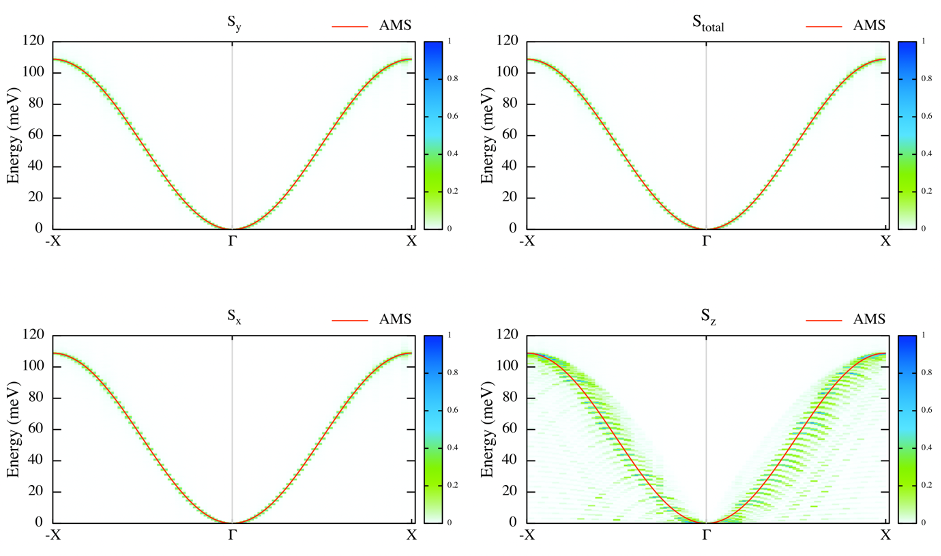
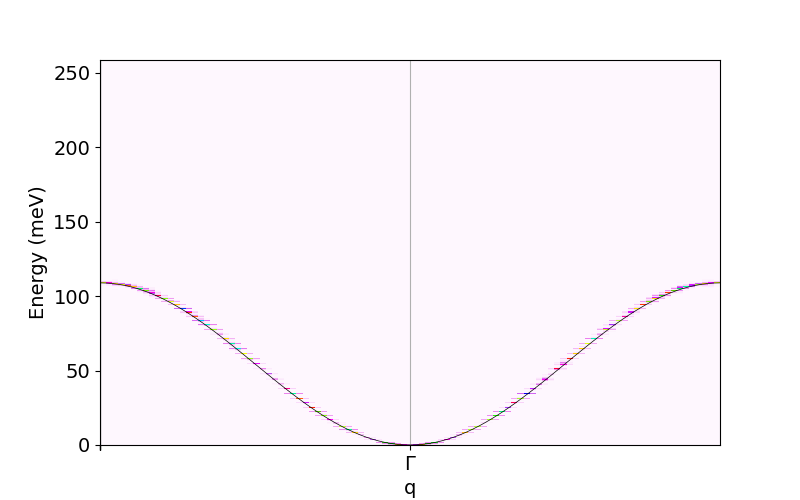
Updated the HeisChain example

diff --git a/content/magnon/magnon.rst b/content/magnon/magnon.rst
@@ -2,7 +2,7 @@ Magnon spectra and noncollinear magnetism
 =========================================
 
 
-Tutorial 1: bcc Fe at different temperature
+Exercise 1: bcc Fe at different temperature
 ------------------------------------------------
 
 Collinear magnon spectra and influence of uniaxial anisotropy
@@ -13,7 +13,7 @@ This example shows how to calculate the spin wave spectrum of the standard examp
 Crystal & magnetic structure
 ^^^^^^^^^^^^^^^^^^^^^^^^^^^^
 
-Using the lines below with the indicated files, the crystal and magnetic structure are readily available, so that a simulation of a  Fe bcc system is set up.
+Using the lines below with the indicated files, the crystal and magnetic structure are readily available, so that a simulation of an Fe bcc system is set up.
 
 ::
 
@@ -58,7 +58,7 @@ Below the critical temperature bcc Fe has long range collinear ordering of spins
   qpoints D                                       Direct coordinates
   qfile ./qfile.kpath                             q points
 
-**The first Brilluoin zone of a body centered cubic lattice**
+**The first Brillouin zone of a body centered cubic lattice**
 
 .. figure:: figures/tutorial1/fig3.png
 
@@ -66,7 +66,7 @@ Fig 3. Primitive and reciprocal lattice vectors in bcc.
 
 .. figure:: figures/tutorial1/fig4.png
 
-Fig 4. BCC 1st Brilluoin zone.
+Fig 4. BCC 1st Brillouin zone.
 
 .. figure:: figures/tutorial1/fig5.png
 
@@ -94,13 +94,13 @@ Questions and exercises:
 
 Fig 7. Adiabatic magnon spectra of Fe FCC.
 
-Tutorial 2: FM Heisenberg nearest-neighbour spin chain
+Exercise 2: FM Heisenberg nearest-neighbour spin chain
 ------------------------------------------------------
 
 Collinear adiabatic magnon spectra and S(q,w)
 ^^^^^^^^^^^^^^^^^^^^^^^^^^^^^^^^^^^^^^^^^^^^^
 
-The following tutorial shows every step necessary to calculate spin wave spectrum and S(q,w) through the simple example of the ferromagnetic spin chain. Notice that the classical magnetic ground state of the Hamiltonian defined in this example is where every spin have the same direction, the direction is arbitrary since the Hamiltonian is isotropic. Files are found in HeisChain folder.
+The following tutorial shows every step necessary to calculate spin wave spectrum and S(q,w) through the simple example of the ferromagnetic spin chain. Notice that the classical magnetic ground state of the Hamiltonian defined in this example is where every spin have the same direction, the direction is arbitrary since the Hamiltonian is isotropic. Files are found in ``HeisChain`` folder.
 
 Crystal & magnetic structure
 ^^^^^^^^^^^^^^^^^^^^^^^^^^^^
@@ -112,46 +112,41 @@ Using the lines below with the indicated files, the crystal and magnetic structu
   ncell     1         1         100               System size (in terms of unit cells)
   BC        0         0         P                 Boundary conditions (0=vacuum,P=periodic)
   cell      1.00000   0.00000   0.00000
-           0.00000   1.00000   0.00000
-           0.00000   0.00000   1.00000
+            0.00000   1.00000   0.00000
+            0.00000   0.00000   1.00000
   Sym       1                                     Symmetry of lattice (0 for no, 1 for cubic, 2 for 2d cubic, 3 for hexagonal)
 
   posfile   ./posfile                             Position file
   exchange  ./jfile                               Exchange file
   momfile   ./momfile                             Moment file
-  do_prnstruct 1          Flag to print lattice structure (0=off/1=on/2=print only coordinates)
+  do_prnstruct 1                                  Flag to print lattice structure (0=off/1=on/2=print only coordinates)
+
+  Mensemble 1                                     Number of samples in ensemble averaging
+  Initmag   3                                     (1=random, 2=cone, 3=spec., 4=file)
 
 .. figure:: figures/tutorial2/fig1.png
 
 Fig 1. Crystal and magnetic texture.
 
-Spin dynamics
-^^^^^^^^^^^^^
+**The first Brillouin zone of a simple cubic lattice**
 
-Using the lines below, the systems is driven to the ground state by spin dynamics.
-::
+.. figure:: figures/tutorial2/fig3.png
 
-  Mensemble 1                                     Number of samples in ensemble averaging
-  Initmag   3                                     (1=random, 2=cone, 3=spec., 4=file)
+Fig 3. Primitive and reciprocal lattice vectors in sc.
 
-  ip_mode   S                                     Initial phase parameters
-  ip_nphase 1
-  20000 1.0e-3 1e-16 4.0
+.. figure:: figures/tutorial2/fig4.png
 
-  mode      S                                     S=SD, M=MC
-  temp      1.0e-3                                Measurement phase parameters
-  damping   0.0010                                --
-  Nstep     40000                                 --
-  timestep  1.000e-15                             --
+Fig 4. SC 1st Brillouin zone.
 
-.. figure:: figures/tutorial2/fig2.png
+.. figure:: figures/tutorial2/fig5.png
 
-Fig 2. Energy versus number of iterations.
+Fig 5. High symmetry points.
 
-Spin wave spectrum
-^^^^^^^^^^^^^^^^^^
 
-We calculate the spin wave spectrum (in this case, a collinear adiabatic magnon spectra) at the list of Q points (qfile). Use qmaker script.
+Calculation of spin wave spectrum
+^^^^^^^^^^^^^^^^^^^^^^^^^^^^^^^^^
+
+We calculate the spin wave spectrum (in this case, a collinear adiabatic magnon spectra) at the list of Q points contained in the ``qfile``. The spin wave spectra is calculated as excititions from the T=0 K ferromagnetic ground state.
 
 ::
 
@@ -161,45 +156,50 @@ We calculate the spin wave spectrum (in this case, a collinear adiabatic magnon 
   qpoints F                        Flag for q-point generation (F=file,A=automatic,C=full cell)
   qfile   ./qfile                  Path along the high symmetry points in the reciprocal space
 
-**The first Brilluoin zone of a simple cubic lattice**
 
-.. figure:: figures/tutorial2/fig3.png
+Spin dynamics
+^^^^^^^^^^^^^
 
-Fig 3. Primitive and reciprocal lattice vectors in sc.
-
-.. figure:: figures/tutorial2/fig4.png
-
-Fig 4. SC 1st Brilluoin zone.
-
-.. figure:: figures/tutorial2/fig5.png
-
-Fig 5. High symmetry points.
-
-Plotting adiabatic magnon spectrum in the framework of Linear Spin Wave Theory
-^^^^^^^^^^^^^^^^^^^^^^^^^^^^^^^^^^^^^^^^^^^^^^^^^^^^^^^^^^^^^^^^^^^^^^^^^^^^^^
-
-Use the UppASD graphical interface (ASDGUI) or the script enclosed in this course (plotsqw_course). Use option 2. File to print out “ams.HeisWire.out”.
-
-.. figure:: figures/tutorial2/fig6.png
-
-Fig 6. Adiabatic magnon spectra.
-
-Plotting S(q,w)
-^^^^^^^^^^^^^^^
-
-Use the UppASD graphical interface (ASDGUI) or the script enclosed in this course (plotsqw_course). Use option 1 for S(q,w) or option 3 for S(q,w) with AMS. File to print out “sqw.HeisWire.out”.
-
+Using the lines below, the systems is equilibrated in spin dynamics simulations to be in thermal equilibrium with a small temperature T=0.001 K.
 ::
 
+  ip_mode   S                                     Initial phase parameters
+  ip_nphase 1
+  20000 1.0e-3 1e-16 4.0
+
+.. figure:: figures/tutorial2/fig2.png
+
+Fig 2. Energy versus number of iterations.
+
+The dynamical structure factor is sampled in spin dynamics simulation at the same temperature T=0.001 K as used in the initial phase used to thermalize the system. The time step is 1 fs, and a small damping 0.0010 is used.
+::
+
+  mode      S                                     S=SD, M=MC
+  temp      1.0e-3                                Measurement phase parameters
+  damping   0.0010                                --
+  Nstep     40000                                 --
+  timestep  1.000e-15                             --
+
+  do_sc Q                                         Measure spin correlation
+  sc_window_fun  2                                Choice of FFT window function (1=box, 2=Hann, 3=Hamming, 4=Blackman-Harris)
   do_sc Q           Measure spin correlation
   sc_window_fun  2  Choice of FFT window function (1=box, 2=Hann, 3=Hamming, 4=Blackman-Harris)
   sc_nstep 5000     Number of steps to sample
   sc_step 8        Number of time steps between each sampling
 
 
+Plotting adiabatic magnon spectrum spectra and the dynamic structure factor
+^^^^^^^^^^^^^^^^^^^^^^^^^^^^^^^^^^^^^^^^^^^^^^^^^^^^^^^^^^^^^^^^^^^^^^^^^^^
+
+Use the UppASD graphical interface (ASD_GUI) or the ``postQ.py`` script to plot the adiabatic magnon spectra and the dynamical structure factor.
+
+.. figure:: figures/tutorial2/fig6.png
+
+Fig 6. Adiabatic magnon spectra is output to the file ams.png.
+
 .. figure:: figures/tutorial2/fig7.png
 
-Fig 7. Structure factor together with AMS.
+Fig 7. Adiabatic magnon spectra together with dynamic structure factor is output to ams_sqw.png.
 
 Questions and exercises:
 ^^^^^^^^^^^^^^^^^^^^^^^^
@@ -207,7 +207,7 @@ Questions and exercises:
 1. Does it follows the analytical expression predicted by Linear Spin Wave Theory?
 
 
-Tutorial 3: AFM Heisenberg nearest-neighbour spin chain
+Exercise 3: AFM Heisenberg nearest-neighbour spin chain
 -------------------------------------------------------
 
 Collinear adiabatic magnon spectra and S(q,w)
@@ -275,7 +275,7 @@ We calculate the spin wave spectrum (in this case, a collinear adiabatic magnon 
                                 file with direct coordinates)
   qfile   ./qfile               Path along the high symmetry points in the reciprocal space
 
-**The first Brilluoin zone of a simple cubic lattice**
+**The first Brillouin zone of a simple cubic lattice**
 
 .. figure:: figures/tutorial3/fig3.png
 
@@ -283,7 +283,7 @@ Fig 3. Primitive and reciprocal lattice vectors in sc.
 
 .. figure:: figures/tutorial3/fig4.png
 
-Fig 4. SC 1st Brilluoin zone.
+Fig 4. SC 1st Brillouin zone.
 
 .. figure:: figures/tutorial3/fig5.png
 
@@ -292,7 +292,7 @@ Fig 5. High symmetry points.
 Plotting adiabatic magnon spectrum in the framework of Linear Spin Wave Theory
 ^^^^^^^^^^^^^^^^^^^^^^^^^^^^^^^^^^^^^^^^^^^^^^^^^^^^^^^^^^^^^^^^^^^^^^^^^^^^^^
 
-Use the UppASD graphical interface (ASDGUI) or the script enclosed in this course (plotsqw_course). Use option 2. File to print out “ams.HeisWire.out”.
+Use the UppASD graphical interface (ASD_GUI) or the script enclosed in this course (plotsqw_course). Use option 2. File to print out “ams.HeisWire.out”.
 
 1. Use only the primitive cell.
 
@@ -309,7 +309,7 @@ Fig 7. Adiabatic magnon spectra.
 Plotting S(q,w)
 ^^^^^^^^^^^^^^^
 
-Use the UppASD graphical interface (ASDGUI) or the script enclosed in this course (plotsqw_course). Use option 1 for S(q,w) or option 3 for S(q,w) with AMS. File to print out “sqw.HeisWire.out”.
+Use the UppASD graphical interface (ASD_GUI) or the script enclosed in this course (plotsqw_course). Use option 1 for S(q,w) or option 3 for S(q,w) with AMS. File to print out “sqw.HeisWire.out”.
 
 ::
 
@@ -329,7 +329,7 @@ Questions and exercises:
 2. Calculate analytically the Energy/spin and show it is the same as the numerical result.
 
 
-Tutorial 4: FM Heisenberg nearest-neighbour spin chain with DM interactions
+Exercise 4: FM Heisenberg nearest-neighbour spin chain with DM interactions
 ---------------------------------------------------------------------------
 
 Non-Collinear adiabatic magnon spectra and S(q,w)
@@ -401,7 +401,7 @@ We calculate the non-collinear  and collinear spin wave spectrum at the list of 
   qfile   ./qfile               Path along the high symmetry points in the reciprocal space
 
 
-**The first Brilluoin zone of a simple cubic lattice**
+**The first Brillouin zone of a simple cubic lattice**
 
 .. figure:: figures/tutorial4/fig3.png
 
@@ -409,7 +409,7 @@ Fig 3. Primitive and reciprocal lattice vectors in sc.
 
 .. figure:: figures/tutorial4/fig4.png
 
-Fig 4. SC 1st Brilluoin zone.
+Fig 4. SC 1st Brillouin zone.
 
 .. figure:: figures/tutorial4/fig5.png
 
@@ -418,7 +418,7 @@ Fig 5. High symmetry points.
 Plotting adiabatic magnon spectrum in the framework of Linear Spin Wave Theory
 ^^^^^^^^^^^^^^^^^^^^^^^^^^^^^^^^^^^^^^^^^^^^^^^^^^^^^^^^^^^^^^^^^^^^^^^^^^^^^^
 
-Use the UppASD graphical interface (ASDGUI) or the script enclosed in this course (plotsqw_course). Use option 2. File to print out “ams.HeisWire.out”.
+Use the UppASD graphical interface (ASD_GUI) or the script enclosed in this course (plotsqw_course). Use option 2. File to print out “ams.HeisWire.out”.
 
 1. Collinear AMS
 
@@ -435,7 +435,7 @@ Fig 7. Non-collinear Adiabatic magnon spectra.
 Plotting S(q,w)
 ^^^^^^^^^^^^^^^
 
-Use the UppASD graphical interface (ASDGUI) or the script enclosed in this course (plotsqw_course). Use option 1 for S(q,w), option 4 for S(q,w) with NC_AMS and option 5 S(q,w) with AMS. File to print out “sqw.HeisWire.out”.
+Use the UppASD graphical interface (ASD_GUI) or the script enclosed in this course (plotsqw_course). Use option 1 for S(q,w), option 4 for S(q,w) with NC_AMS and option 5 S(q,w) with AMS. File to print out “sqw.HeisWire.out”.
 
 ::
 
@@ -454,7 +454,7 @@ Questions and exercises:
 
 
 
-Tutorial 5: Kagome system with DM interactions
+Exercise 5: Kagome system with DM interactions
 ----------------------------------------------
 
 Non-Collinear adiabatic magnon spectra and S(q,w)
@@ -522,16 +522,16 @@ We calculate the non-collinear spin wave spectrum (in this case, a collinear adi
                                 file with direct coordinates)
   qfile   ./qfile               Path along the high symmetry points in the reciprocal space
 
-**The first Brilluoin zone of a hexagonal lattice**
+**The first Brillouin zone of a hexagonal lattice**
 
 .. figure:: figures/tutorial5/fig2.png
 
-Fig 2. Primitive and reciprocal lattice vectors in hcp with 1st Brilluoin zone and High symmetry points.
+Fig 2. Primitive and reciprocal lattice vectors in hcp with 1st Brillouin zone and High symmetry points.
 
 Plotting adiabatic magnon spectrum in the framework of Linear Spin Wave Theory
 ^^^^^^^^^^^^^^^^^^^^^^^^^^^^^^^^^^^^^^^^^^^^^^^^^^^^^^^^^^^^^^^^^^^^^^^^^^^^^^
 
-Use the UppASD graphical interface (ASDGUI) or the script enclosed in this course (plotsqw_course). Use option 4. File to print out “ncams.kagome_T.out”.
+Use the UppASD graphical interface (ASD_GUI) or the script enclosed in this course (plotsqw_course). Use option 4. File to print out “ncams.kagome_T.out”.
 
 .. figure:: figures/tutorial5/fig3.png
 
@@ -540,7 +540,7 @@ Fig 3. Non-Collinear AMS.
 Plotting S(q,w)
 ^^^^^^^^^^^^^^^
 
-Use the UppASD graphical interface (ASDGUI) or the script enclosed in this course (plotsqw_course). Use option 1 for S(q,w), option 4 for S(q,w) with NC_AMS. File to print out “ncams.kagome_T.out” and “sqw.kagome_T.out”.
+Use the UppASD graphical interface (ASD_GUI) or the script enclosed in this course (plotsqw_course). Use option 1 for S(q,w), option 4 for S(q,w) with NC_AMS. File to print out “ncams.kagome_T.out” and “sqw.kagome_T.out”.
 
 ::
 
@@ -568,7 +568,7 @@ Questions and exercises:
 2. Seems linear around Gamma point but J is FM? Why is that? Shouldn´t be parabolic?
 
 
-Tutorial 6: Triangular system with AFM interactions
+Exercise 6: Triangular system with AFM interactions
 ---------------------------------------------------
 
 Non-Collinear adiabatic magnon spectra and S(q,w)
@@ -650,16 +650,16 @@ We calculate the non-collinear spin wave spectrum (in this case, a collinear adi
   qm_nvec 0 0 1                             Unit-vector perpendicular to spins
   qm_svec 0 1 0                             Direction of the spin
 
-**The first Brilluoin zone of a hexagonal lattice**
+**The first Brillouin zone of a hexagonal lattice**
 
 .. figure:: figures/tutorial6/fig2.png
 
-Fig 2. Primitive and reciprocal lattice vectors in hcp with 1st Brilluoin zone and High symmetry points.
+Fig 2. Primitive and reciprocal lattice vectors in hcp with 1st Brillouin zone and High symmetry points.
 
 Plotting adiabatic magnon spectrum in the framework of Linear Spin Wave Theory
 ^^^^^^^^^^^^^^^^^^^^^^^^^^^^^^^^^^^^^^^^^^^^^^^^^^^^^^^^^^^^^^^^^^^^^^^^^^^^^^
 
-Use the UppASD graphical interface (ASDGUI) or the script enclosed in this course (plotsqw_course). Use option 7. File to print out “ncams.kagome_T.out”, “ncams+q.triang_T.out” and “ncams-q.triang_T.out”
+Use the UppASD graphical interface (ASD_GUI) or the script enclosed in this course (plotsqw_course). Use option 7. File to print out “ncams.kagome_T.out”, “ncams+q.triang_T.out” and “ncams-q.triang_T.out”
 
 .. figure:: figures/tutorial6/fig3.png
 
@@ -668,7 +668,7 @@ Fig 3. Non-Collinear AMS.
 Plotting S(q,w)
 ^^^^^^^^^^^^^^^
 
-Use the UppASD graphical interface (ASDGUI) or the script enclosed in this course (plotsqw_course). Use option 1 for S(q,w), option 6 for S(q,w) with NC_AMS+Q. File to print out “ncams.kagome_T.out”, “sqw.kagome_T.out”,” ncams+q.triang_T.out” and “ncams-q.triang_T.out”.
+Use the UppASD graphical interface (ASD_GUI) or the script enclosed in this course (plotsqw_course). Use option 1 for S(q,w), option 6 for S(q,w) with NC_AMS+Q. File to print out “ncams.kagome_T.out”, “sqw.kagome_T.out”,” ncams+q.triang_T.out” and “ncams-q.triang_T.out”.
 
 ::
 
@@ -713,7 +713,7 @@ Eq 4. Excitation energy for spin waves in an isotropic antiferromagnet.
 Eq 5. Excitation energy for spin waves in an isotropic ferromagnet.
 
 
-Tutorial 7: Spin wave stiffness
+Exercise 7: Spin wave stiffness
 -------------------------------
 
 The spin wave stiffness and the related property exchange stiffness provides the bridge between atomistic spin dynamics and micromagnetism.
